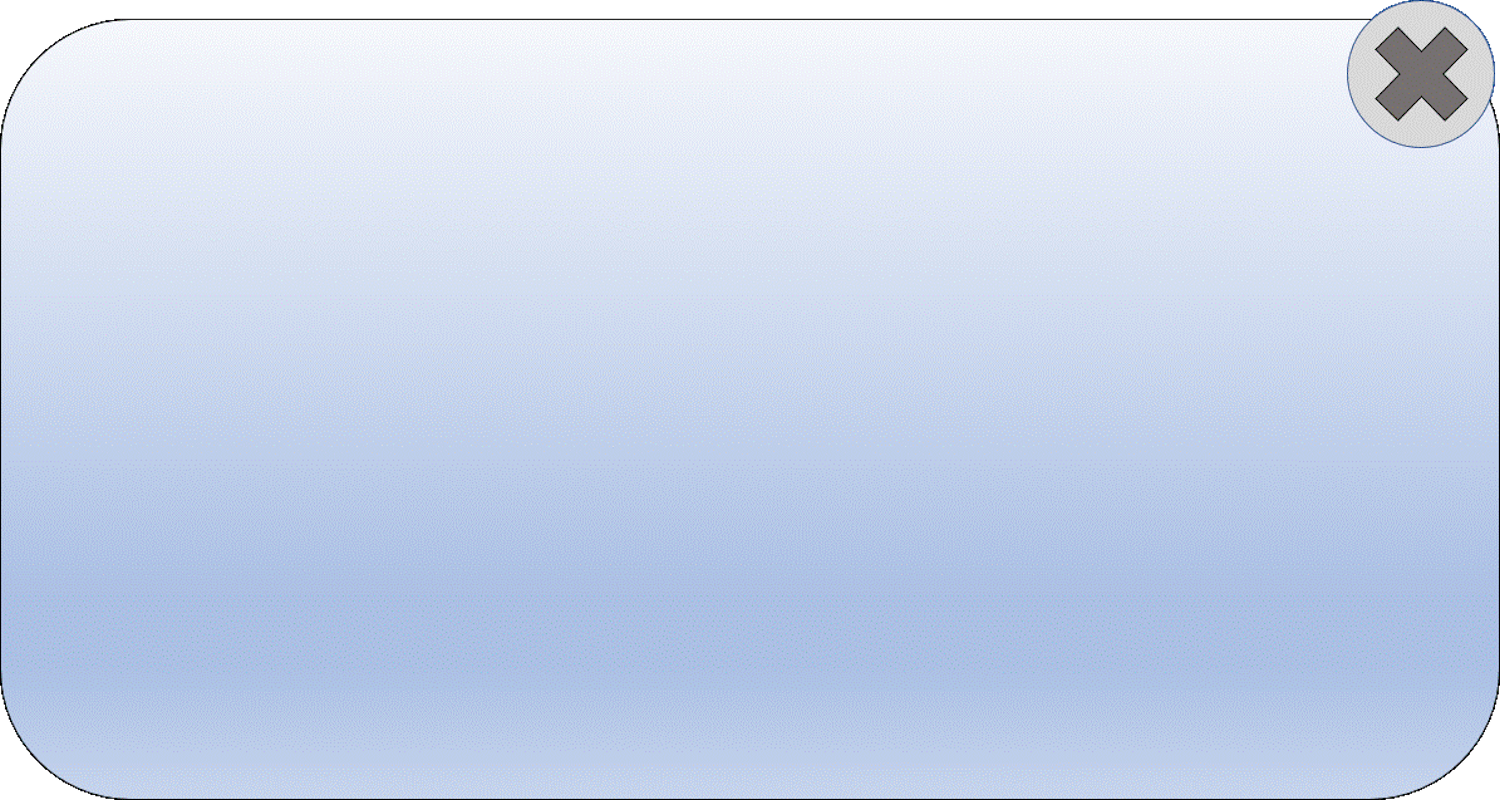
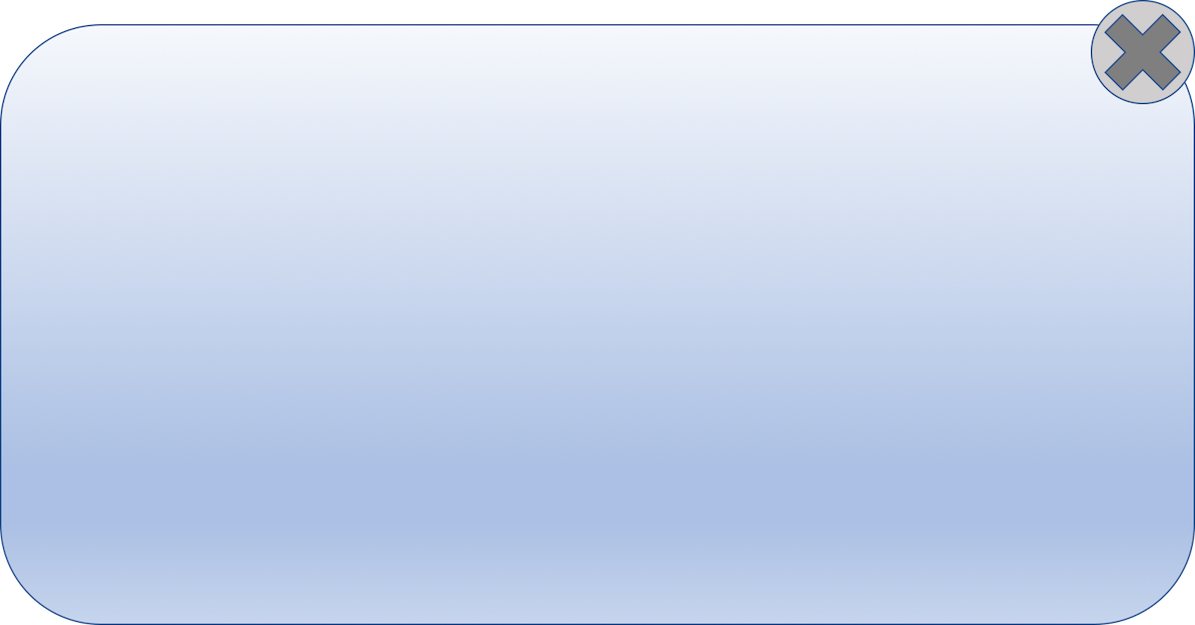
leve2

diff --git a/js/Bag.js b/js/Bag.js
@@ -26,7 +26,7 @@ var Bag = Framework.exClass(Framework.GameMainMenu,
 
         load: function () {
             this.backYellowGround = new Framework.Sprite(define.imagePath + 'background-yellow.png');
-            this.backGround = new Framework.Sprite(define.imagePath + 'background-AboutScreen.png');
+            this.backGround = new Framework.Sprite(define.imagePath + 'bagBackground.png');
             this.bagTitle = new Framework.Sprite(define.imagePath + 'bagTitlepic.png');
             this.bagSquareArray = []
             for(var i = 0; i < 8; i++)

diff --git a/js/MainGame.js b/js/MainGame.js
@@ -5,7 +5,7 @@ Framework.Game.isBackwardCompatiable = false;
 
 //當有要加關卡時, 可以使用addNewLevel
 //第一個被加進來的Level就是啟動點, 所以一開始遊戲就進入MyMenu
-Framework.Game.addNewLevel({level3Test: new Level3()});
+// Framework.Game.addNewLevel({level3Test: new Level3()});
 Framework.Game.addNewLevel({myMenu: new MyMenu()})
 Framework.Game.addNewLevel({chooseLevel: new ChooseLevel()})
 Framework.Game.addNewLevel({cheatScreen: new CheatScreen()})

diff --git a/js/CheatScreen.js b/js/CheatScreen.js
@@ -133,7 +133,6 @@ var CheatScreen = Framework.exClass(Framework.GameMainMenu,
             this.txt_KeyboardSwordAtk._text = Framework.Game.keyboardAtk
             this.txt_KeyboardSwordCount._text = Framework.Game.keyboardCount
 
-            
             console.log(this.txt_GoldSwordAtk._value)
             //目前的Framework, 當任何一個GameObject不做attach時, 則必須要自行update
 
